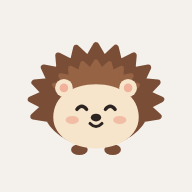
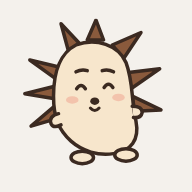
마스코트를 직접 그린 고슴도치 캐릭터로 교체 + 로그인 확인 순서 수정
- 직접 그린 그림을 다듬어 색을 입힌 '도치' (기본·웃음·졸림·놀람·몸 만 모습), 앱 아이콘도 교체
- 스크립트를 다 불러온 뒤에 로그인 화면 이동 (느린 네트워크에서 빈 화면·활동 탭 복귀 실패 방지)

Claude-Session: https://claude.ai/code/session_01HRZhSQmDeYGswkUaTWCnCH

Changed region(s): [[0.125, 0.0938, 0.875, 0.875]]

diff --git a/kync-ui.js b/kync-ui.js
@@ -63,71 +63,71 @@ const KYNC_CONFIG = {
   window.GOOGLE_G = '<svg width="18" height="18" viewBox="0 0 48 48" aria-hidden="true"><path fill="#FFC107" d="M43.6 20.5H42V20H24v8h11.3C33.7 32.7 29.2 36 24 36c-6.6 0-12-5.4-12-12s5.4-12 12-12c3.1 0 5.8 1.2 7.9 3.1l5.7-5.7C34 6.1 29.3 4 24 4 12.9 4 4 12.9 4 24s8.9 20 20 20 20-8.9 20-20c0-1.3-.1-2.4-.4-3.5z"/><path fill="#FF3D00" d="M6.3 14.7l6.6 4.8C14.7 15.1 19 12 24 12c3.1 0 5.8 1.2 7.9 3.1l5.7-5.7C34 6.1 29.3 4 24 4 16.3 4 9.7 8.3 6.3 14.7z"/><path fill="#4CAF50" d="M24 44c5.2 0 9.9-2 13.4-5.2l-6.2-5.2C29.2 35.1 26.7 36 24 36c-5.2 0-9.6-3.3-11.3-7.9l-6.5 5C9.5 39.6 16.2 44 24 44z"/><path fill="#1976D2" d="M43.6 20.5H42V20H24v8h11.3c-.8 2.2-2.2 4.2-4.1 5.6l6.2 5.2C37 39.2 44 34 44 24c0-1.3-.1-2.4-.4-3.5z"/></svg>';
 })();
 
-/* ── 브랜드: 고슴도치 '도치' ── */
+/* ── 브랜드: 고슴도치 '도치' (보영이 직접 그린 캐릭터를 다듬은 것) ── */
 const KyncBrand = (function () {
-  const C = { quill: '#7A4E36', quill2: '#9A6646', face: '#F6E4CB', ink: '#2B2421', blush: '#EE9C86' };
-
-  // 가시 테두리: 타원 위에 뾰족한 점을 번갈아 찍고, 둥근 선으로 끝을 부드럽게
-  function spikes(cx, cy, rx, ry, n, depth, a0, a1) {
-    const rad = d => d * Math.PI / 180, f = v => v.toFixed(1), pts = [];
-    const step = (a1 - a0) / n;
-    for (let i = 0; i <= n; i++) {
-      const a = a0 + step * i;
-      pts.push([cx + Math.cos(rad(a)) * rx, cy + Math.sin(rad(a)) * ry]);
-      if (i < n) {
-        const m = a + step / 2;
-        pts.push([cx + Math.cos(rad(m)) * (rx + depth), cy + Math.sin(rad(m)) * (ry + depth)]);
-      }
-    }
-    let d = `M${f(pts[0][0])} ${f(pts[0][1])}`;
-    for (let i = 1; i < pts.length; i++) d += `L${f(pts[i][0])} ${f(pts[i][1])}`;
-    return d + `A${rx} ${ry} 0 0 1 ${f(pts[0][0])} ${f(pts[0][1])}Z`;
-  }
-  const BACK = spikes(60, 60, 44, 36, 13, 11, -205, 25);
-  const CROWN = spikes(60, 56, 30, 22, 9, 7, -170, -10);
-  const BALL = spikes(60, 58, 36, 34, 18, 9, -270, 90);
+  const C = { line: '#3B2A21', quill: '#8A5A3C', body: '#F7E6CC', blush: '#F0A08C' };
+  const SW = 2.8;
+  const ST = `stroke="${C.line}" stroke-width="${SW}" stroke-linejoin="round" stroke-linecap="round"`;
+  // 살짝 기울어진 몸통
+  const BODY = 'M44 21C60 15 78 21 84 35C90 51 88 64 92 82C95 97 88 106 74 108C62 110 49 106 40 98C30 89 26 79 26 62C26 42 32 27 44 21Z';
+  // 몸 바깥으로 뻗은 가시 (왼쪽 3, 위 3, 오른쪽 2)
+  const SPIKES = [
+    'M32 39L7 33L29 49Z', 'M27 54L3 60L27 64Z', 'M28 69L8 86L32 79Z',
+    'M38 26L32 4L47 20Z', 'M53 17L60 1L66 17Z', 'M73 21L96 11L82 32Z', 'M86 43L111 40L88 56Z', 'M89 62L112 73L91 74Z',
+  ];
 
   function face(mood) {
-    const eye = x => `<ellipse cx="${x}" cy="66" rx="3.6" ry="4.2" fill="${C.ink}"/><circle cx="${x + 1.2}" cy="64.6" r="1.1" fill="#fff"/>`;
-    let eyes = eye(48) + eye(72), mouth = `<path d="M56.5 79q3.5 3 7 0" stroke="${C.ink}" stroke-width="2.4" fill="none" stroke-linecap="round"/>`;
+    const eye = x => `<ellipse cx="${x}" cy="55" rx="3.3" ry="4.4" fill="${C.line}"/><circle cx="${x + 1}" cy="53.5" r="1" fill="#fff"/>`;
+    let brows = `<path d="M44 44.5l9-1.5M65 43l9 1" stroke="${C.line}" stroke-width="${SW}" stroke-linecap="round"/>`;
+    let eyes = eye(48) + eye(70);
+    let mouth = `<path d="M59 70.5v4" stroke="${C.line}" stroke-width="2.4" stroke-linecap="round"/>`;
     if (mood === 'happy') {
-      eyes = `<path d="M44 67q4-5 8 0M68 67q4-5 8 0" stroke="${C.ink}" stroke-width="3" fill="none" stroke-linecap="round"/>`;
-      mouth = `<path d="M55 79q5 5 10 0" stroke="${C.ink}" stroke-width="2.6" fill="none" stroke-linecap="round"/>`;
+      brows = `<path d="M44 42.5q4.5-2.5 9-1M65 41.5q4.5-1.5 9 1" stroke="${C.line}" stroke-width="${SW}" fill="none" stroke-linecap="round"/>`;
+      eyes = `<path d="M44.5 56q3.5-5 7 0M66.5 55q3.5-5 7 0" stroke="${C.line}" stroke-width="${SW}" fill="none" stroke-linecap="round"/>`;
+      mouth = `<path d="M55.5 71.5q3.5 4 7 0" stroke="${C.line}" stroke-width="2.4" fill="none" stroke-linecap="round"/>`;
     } else if (mood === 'sleepy') {
-      eyes = `<path d="M44 66h8M68 66h8" stroke="${C.ink}" stroke-width="3" stroke-linecap="round"/>`;
-      mouth = '';
+      eyes = `<path d="M45 56h7M67 55h7" stroke="${C.line}" stroke-width="${SW}" stroke-linecap="round"/>`;
     } else if (mood === 'wow') {
-      mouth = `<ellipse cx="60" cy="81" rx="2.6" ry="3" fill="${C.ink}"/>`;
+      brows = `<path d="M44 41l9-2M65 39.5l9 2" stroke="${C.line}" stroke-width="${SW}" stroke-linecap="round"/>`;
+      mouth = `<ellipse cx="59" cy="73" rx="2.4" ry="3" fill="${C.line}"/>`;
     }
-    return `${eyes}<ellipse cx="60" cy="74" rx="4.4" ry="3.3" fill="${C.ink}"/>${mouth}` +
-      `<ellipse cx="40" cy="76" rx="5.5" ry="3.4" fill="${C.blush}" opacity=".55"/><ellipse cx="80" cy="76" rx="5.5" ry="3.4" fill="${C.blush}" opacity=".55"/>`;
+    return `${brows}${eyes}<ellipse cx="59" cy="66" rx="3.6" ry="3" fill="${C.line}"/>${mouth}` +
+      `<ellipse cx="41" cy="65" rx="5" ry="3" fill="${C.blush}" opacity=".5"/><ellipse cx="78" cy="63" rx="5" ry="3" fill="${C.blush}" opacity=".5"/>`;
   }
 
   // mood: default | happy | sleepy | wow
   function mascot(mood, size, opts) {
     opts = opts || {};
-    const shadow = opts.shadow === false ? '' : `<ellipse cx="60" cy="106" rx="30" ry="4" fill="rgba(43,36,33,.10)"/>`;
-    return `<svg class="mascot ${opts.cls || ''}" width="${size}" height="${Math.round(size * 112 / 120)}" viewBox="0 0 120 112" aria-hidden="true">${shadow}
-      <path d="${BACK}" fill="${C.quill}" stroke="${C.quill}" stroke-width="5" stroke-linejoin="round"/>
-      <path d="${CROWN}" fill="${C.quill2}" stroke="${C.quill2}" stroke-width="4" stroke-linejoin="round" opacity=".9"/>
-      <ellipse cx="46" cy="101" rx="7" ry="4.5" fill="${C.quill}"/><ellipse cx="74" cy="101" rx="7" ry="4.5" fill="${C.quill}"/>
-      <path d="M24 74C24 56 40 46 60 46s36 10 36 28c0 15-16 26-36 26S24 89 24 74z" fill="${C.face}"/>
-      <circle cx="33" cy="49" r="7.5" fill="${C.face}"/><circle cx="33" cy="49" r="3.6" fill="${C.blush}" opacity=".7"/>
-      <circle cx="87" cy="49" r="7.5" fill="${C.face}"/><circle cx="87" cy="49" r="3.6" fill="${C.blush}" opacity=".7"/>
+    const shadow = opts.shadow === false ? '' : `<ellipse cx="62" cy="117" rx="32" ry="4" fill="rgba(43,36,33,.10)"/>`;
+    return `<svg class="mascot ${opts.cls || ''}" width="${size}" height="${Math.round(size * 124 / 120)}" viewBox="0 0 120 124" aria-hidden="true">${shadow}
+      ${SPIKES.map(d => `<path d="${d}" fill="${C.quill}" ${ST}/>`).join('')}
+      <path d="${BODY}" fill="${C.body}" ${ST}/>
+      <path d="M30 76q-8 2-6 8q2 4 8 1" fill="${C.body}" ${ST}/>
+      <path d="M89 70q8 0 8 5q-1 5-7 4" fill="${C.body}" ${ST}/>
+      <ellipse cx="49" cy="111" rx="9" ry="5" fill="${C.body}" ${ST}/>
+      <ellipse cx="84" cy="109" rx="9" ry="5" fill="${C.body}" ${ST}/>
       ${face(mood)}</svg>`;
   }
 
-  // 몸을 만 모습 (답을 기다릴 때, 로딩)
+  // 몸을 동그랗게 만 모습 (답을 기다릴 때, 로딩)
   function curled(size, cls) {
-    return `<svg class="mascot ${cls || ''}" width="${size}" height="${Math.round(size * 112 / 120)}" viewBox="0 0 120 112" aria-hidden="true">
-      <path d="${BALL}" fill="${C.quill}" stroke="${C.quill}" stroke-width="5" stroke-linejoin="round"/>
-      <path d="${spikes(60, 52, 22, 18, 8, 6, -170, -10)}" fill="${C.quill2}" stroke="${C.quill2}" stroke-width="4" stroke-linejoin="round" opacity=".85"/>
-      <ellipse cx="60" cy="84" rx="14" ry="9" fill="${C.face}"/><ellipse cx="60" cy="82" rx="3.6" ry="2.8" fill="${C.ink}"/></svg>`;
+    const spikes = [];
+    for (let i = 0; i < 12; i++) {
+      const a = (i / 12) * Math.PI * 2 - Math.PI / 2, w = 0.2;
+      const p = (r, t) => `${(60 + Math.cos(t) * r).toFixed(1)} ${(60 + Math.sin(t) * r).toFixed(1)}`;
+      spikes.push(`M${p(34, a - w)}L${p(56, a)}L${p(34, a + w)}Z`);
+    }
+    return `<svg class="mascot ${cls || ''}" width="${size}" height="${size}" viewBox="0 0 120 120" aria-hidden="true">
+      ${spikes.map(d => `<path d="${d}" fill="${C.quill}" ${ST}/>`).join('')}
+      <circle cx="60" cy="60" r="36" fill="${C.body}" ${ST}/>
+      <path d="M46 62h8M66 62h8" stroke="${C.line}" stroke-width="${SW}" stroke-linecap="round"/>
+      <ellipse cx="60" cy="71" rx="3.4" ry="2.8" fill="${C.line}"/>
+      <ellipse cx="42" cy="71" rx="5" ry="3" fill="${C.blush}" opacity=".5"/><ellipse cx="78" cy="71" rx="5" ry="3" fill="${C.blush}" opacity=".5"/></svg>`;
   }
 
-  // 로고: 도치 얼굴 + kync
+  // 로고: 도치 + kync
   function wordmark(cls) {
-    return `<span class="wordmark ${cls || ''}" aria-label="kync">${mascot('default', 30, { shadow: false, cls: 'wm-mark' })}<span class="wm-text">kync</span></span>`;
+    return `<span class="wordmark ${cls || ''}" aria-label="kync">${mascot('default', 32, { shadow: false, cls: 'wm-mark' })}<span class="wm-text">kync</span></span>`;
   }
 
   return { mascot, curled, wordmark, C };
@@ -232,6 +232,22 @@ const KyncUI = {
     finally { delete btn.dataset.busy; btn.disabled = false; btn.innerHTML = prev; }
   },
 };
+
+/* 앱 하단 탭 전환 */
+function selectTab(targetId) {
+  const panel = document.getElementById(targetId);
+  if (!panel) return;
+  const page = panel.closest('.page');
+  page.querySelectorAll('.tab-panel').forEach(c => c.classList.toggle('active', c === panel));
+  page.querySelectorAll('.tab-btn').forEach(b => {
+    const on = b.dataset.target === targetId;
+    b.classList.toggle('active', on);
+    if (on) b.setAttribute('aria-current', 'page'); else b.removeAttribute('aria-current');
+  });
+  page.querySelector('.app-main').scrollTop = 0;
+  if (targetId.endsWith('activityTab') && typeof KyncActivity !== 'undefined') KyncActivity.render();
+}
+window.selectTab = selectTab;
 
 /* HTML에 적어둔 자리표시(data-ic, data-mascot 등)를 그림으로 채우기 */
 KyncUI.hydrate = function (root) {

diff --git a/index.html b/index.html
@@ -12,7 +12,7 @@
   <meta name="apple-mobile-web-app-capable" content="yes" />
   <meta name="apple-mobile-web-app-title" content="Kync" />
   <link rel="preload" href="fonts/SUIT-Variable.woff2" as="font" type="font/woff2" crossorigin />
-  <link rel="stylesheet" href="kync.css?v=20261012-2" />
+  <link rel="stylesheet" href="kync.css?v=20261012-3" />
   <script>
     // 활동 페이지에서 돌아온 경우: 로그인 확인이 끝나면 그 탭을 열어요 (enterApp에서 처리)
     (function () {
@@ -385,33 +385,20 @@
 <script src="https://www.gstatic.com/firebasejs/9.23.0/firebase-auth-compat.js"></script>
 <script src="https://www.gstatic.com/firebasejs/9.23.0/firebase-firestore-compat.js"></script>
 
-<script src="kync-ui.js?v=20261012-2"></script>
-<script src="kync-legal.js?v=20261012-2"></script>
-<script src="firebase-system.js?v=20261012-2"></script>
-<script src="kync-account.js?v=20261012-2"></script>
-<script src="kync-core.js?v=20261012-2"></script>
-<script src="kync-features.js?v=20261012-2"></script>
-<script src="kync-balance.js?v=20261012-2"></script>
-<script src="kync-diary.js?v=20261012-2"></script>
-<script src="kync-quests2.js?v=20261012-2"></script>
-<script src="kync-counsel.js?v=20261012-2"></script>
-<script src="kync-activity.js?v=20261012-2"></script>
+<script src="kync-ui.js?v=20261012-3"></script>
+<script src="kync-legal.js?v=20261012-3"></script>
+<script src="firebase-system.js?v=20261012-3"></script>
+<script src="kync-account.js?v=20261012-3"></script>
+<script src="kync-core.js?v=20261012-3"></script>
+<script src="kync-features.js?v=20261012-3"></script>
+<script src="kync-balance.js?v=20261012-3"></script>
+<script src="kync-diary.js?v=20261012-3"></script>
+<script src="kync-quests2.js?v=20261012-3"></script>
+<script src="kync-counsel.js?v=20261012-3"></script>
+<script src="kync-activity.js?v=20261012-3"></script>
 
 <script>
-// 탭 전환
-function selectTab(targetId) {
-  const panel = document.getElementById(targetId);
-  if (!panel) return;
-  const page = panel.closest('.page');
-  page.querySelectorAll('.tab-panel').forEach(c => c.classList.toggle('active', c === panel));
-  page.querySelectorAll('.tab-btn').forEach(b => {
-    const on = b.dataset.target === targetId;
-    b.classList.toggle('active', on);
-    if (on) b.setAttribute('aria-current', 'page'); else b.removeAttribute('aria-current');
-  });
-  page.querySelector('.app-main').scrollTop = 0;
-  if (targetId.endsWith('activityTab') && typeof KyncActivity !== 'undefined') KyncActivity.render();
-}
+// 탭 전환 (selectTab은 kync-ui.js에 있어요)
 document.querySelectorAll('.tab-btn').forEach(btn => btn.addEventListener('click', () => selectTab(btn.dataset.target)));
 
 </script>

diff --git a/quiz.html b/quiz.html
@@ -6,7 +6,7 @@
   <title>Kync — 대화 유형 검사</title>
   <meta name="theme-color" content="#F4F1EC" />
   <link rel="icon" href="icons/icon-192.png" />
-  <link rel="stylesheet" href="kync.css?v=20261012-2" />
+  <link rel="stylesheet" href="kync.css?v=20261012-3" />
   <script src="https://cdnjs.cloudflare.com/ajax/libs/Chart.js/4.4.1/chart.umd.min.js"></script>
 </head>
 <body>
@@ -101,12 +101,12 @@
 <script src="https://www.gstatic.com/firebasejs/9.23.0/firebase-app-compat.js"></script>
 <script src="https://www.gstatic.com/firebasejs/9.23.0/firebase-auth-compat.js"></script>
 <script src="https://www.gstatic.com/firebasejs/9.23.0/firebase-firestore-compat.js"></script>
-<script src="kync-ui.js?v=20261012-2"></script>
-<script src="firebase-system.js?v=20261012-2"></script>
+<script src="kync-ui.js?v=20261012-3"></script>
+<script src="firebase-system.js?v=20261012-3"></script>
 <script>
 KyncAuth.onAuthChange(user => { if (!user) location.href = 'index.html'; });
 function goHome(){ Quiz.saveAndGoHome(); }
 </script>
-<script src="quiz.js?v=20261012-2"></script>
+<script src="quiz.js?v=20261012-3"></script>
 </body>
 </html>

diff --git a/activity-quiz.html b/activity-quiz.html
@@ -6,7 +6,7 @@
   <title>Kync — 서로 맞히기</title>
   <meta name="theme-color" content="#F4F1EC" />
   <link rel="icon" href="icons/icon-192.png" />
-  <link rel="stylesheet" href="kync.css?v=20261012-2" />
+  <link rel="stylesheet" href="kync.css?v=20261012-3" />
 </head>
 <body>
 <div class="sub-app">
@@ -28,9 +28,9 @@
 <script src="https://www.gstatic.com/firebasejs/9.23.0/firebase-app-compat.js"></script>
 <script src="https://www.gstatic.com/firebasejs/9.23.0/firebase-auth-compat.js"></script>
 <script src="https://www.gstatic.com/firebasejs/9.23.0/firebase-firestore-compat.js"></script>
-<script src="kync-ui.js?v=20261012-2"></script>
-<script src="firebase-system.js?v=20261012-2"></script>
-<script src="kync-features.js?v=20261012-2"></script>
+<script src="kync-ui.js?v=20261012-3"></script>
+<script src="firebase-system.js?v=20261012-3"></script>
+<script src="kync-features.js?v=20261012-3"></script>
 <script>
   const myRole = localStorage.getItem('kync_role') || 'parent';
   const familyCode = localStorage.getItem('kync_family_code') || 'local';

diff --git a/activity-together.html b/activity-together.html
@@ -6,7 +6,7 @@
   <title>Kync — 밸런스 게임</title>
   <meta name="theme-color" content="#F4F1EC" />
   <link rel="icon" href="icons/icon-192.png" />
-  <link rel="stylesheet" href="kync.css?v=20261012-2" />
+  <link rel="stylesheet" href="kync.css?v=20261012-3" />
 </head>
 <body>
 <div class="sub-app">
@@ -31,9 +31,9 @@
 <script src="https://www.gstatic.com/firebasejs/9.23.0/firebase-app-compat.js"></script>
 <script src="https://www.gstatic.com/firebasejs/9.23.0/firebase-auth-compat.js"></script>
 <script src="https://www.gstatic.com/firebasejs/9.23.0/firebase-firestore-compat.js"></script>
-<script src="kync-ui.js?v=20261012-2"></script>
-<script src="firebase-system.js?v=20261012-2"></script>
-<script src="kync-features.js?v=20261012-2"></script>
+<script src="kync-ui.js?v=20261012-3"></script>
+<script src="firebase-system.js?v=20261012-3"></script>
+<script src="kync-features.js?v=20261012-3"></script>
 <script>
   const myRole = localStorage.getItem('kync_role') || 'parent';
   const familyCode = localStorage.getItem('kync_family_code') || 'local';

diff --git a/activity-balance.html b/activity-balance.html
@@ -6,7 +6,7 @@
   <title>Kync — 취향 맞추기</title>
   <meta name="theme-color" content="#F4F1EC" />
   <link rel="icon" href="icons/icon-192.png" />
-  <link rel="stylesheet" href="kync.css?v=20261012-2" />
+  <link rel="stylesheet" href="kync.css?v=20261012-3" />
 </head>
 <body>
 <div class="sub-app">
@@ -70,9 +70,9 @@
 <script src="https://www.gstatic.com/firebasejs/9.23.0/firebase-app-compat.js"></script>
 <script src="https://www.gstatic.com/firebasejs/9.23.0/firebase-auth-compat.js"></script>
 <script src="https://www.gstatic.com/firebasejs/9.23.0/firebase-firestore-compat.js"></script>
-<script src="kync-ui.js?v=20261012-2"></script>
-<script src="firebase-system.js?v=20261012-2"></script>
-<script src="kync-balance.js?v=20261012-2"></script>
+<script src="kync-ui.js?v=20261012-3"></script>
+<script src="firebase-system.js?v=20261012-3"></script>
+<script src="kync-balance.js?v=20261012-3"></script>
 <script>
   const myRole = localStorage.getItem('kync_role') || 'parent';
   const familyCode = localStorage.getItem('kync_family_code') || 'local';

diff --git a/firebase-system.js b/firebase-system.js
@@ -422,7 +422,10 @@ window.logout = async function(skipConfirm) {
 };
 
 /* ── 인증 상태 핸들러 ── */
+// 스크립트를 다 불러온 뒤에 화면을 정해요 (로그인 확인이 먼저 끝나 App 등이 아직 없을 때 대비)
+const _domReady = new Promise(r => document.readyState === 'loading' ? document.addEventListener('DOMContentLoaded', r) : r());
 auth.onAuthStateChanged(async (user) => {
+  await _domReady;
   // 로그인 화면이 있는 index.html에서만 화면 이동 처리 (활동 페이지에서 오류 방지)
   if (!document.getElementById('page-login')) return;
   if (!user) {

diff --git a/README.md b/README.md
@@ -10,7 +10,7 @@
 ```
 index.html            앱 화면 (가입 단계, 부모·자녀 앱, 설정)
 kync.css              디자인 시스템 (색, 글꼴, 모든 화면 스타일)
-kync-ui.js            공통 UI: 아이콘, 마스코트 '도치', 토스트·확인창·시트, 설정값(버전·문의 메일·약관 버전)
+kync-ui.js            공통 UI: 아이콘, 마스코트 '도치'(보영이 직접 그린 캐릭터), 토스트·확인창·시트, 설정값(버전·문의 메일·약관 버전)
 kync-legal.js         약관·개인정보·국외 이전·AI 상담·보호자 동의 문서 (초안)
 firebase-system.js    Firebase 초기화, 로그인, 가족 연결, 데이터 저장·삭제
 kync-account.js       가입 단계(역할→기본 정보→약관→가족 연결→보호자 동의), 설정, 탈퇴
